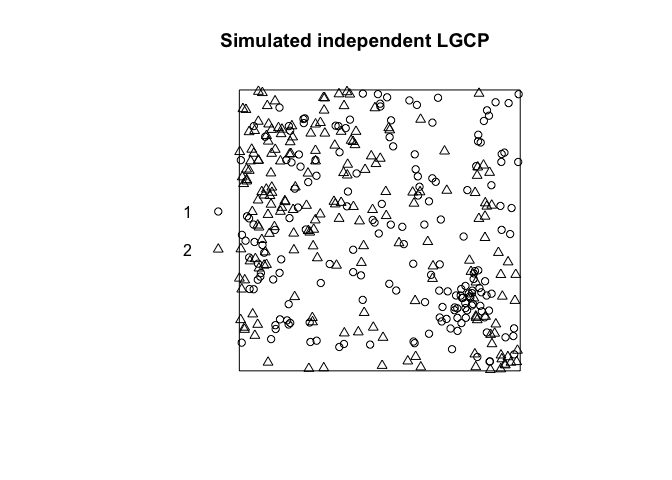
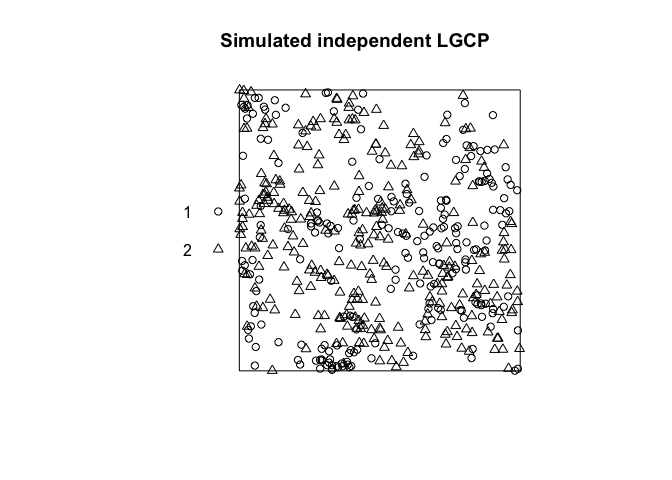
Updated Readme

Changed region(s): [[0.3438, 0.1562, 0.7812, 0.7812]]

diff --git a/README.md b/README.md
@@ -13,7 +13,15 @@ You can install the development version of spatbiome from
 [GitHub](https://github.com/) with:
 
 ``` r
-devtools::install_github("asmita112358/spatbiome")
+
+# Install a package from GitHub
+pak::pak("asmita112358/spatbiome")
+#> ✔ Updated metadata database: 7.33 MB in 14 files.
+#> ℹ Updating metadata database✔ Updating metadata database ... done
+#>  
+#> → Package library at '/Library/Frameworks/R.framework/Versions/4.6/Resources/library'.
+#> ℹ No downloads are needed
+#> ✔ 1 pkg + 40 deps: kept 40 [9.8s]
 ```
 
 ## Generate data
@@ -60,37 +68,25 @@ X <- generate_LGCP(win = spatstat.geom::owin(c(0, 1), c(0, 1)), corrfun = "expon
 plot(X, main = "Simulated independent LGCP")
 ```
 
-<img src="man/figures/README-unnamed-chunk-2-1.png" alt="" width="100%" />
+<img src="man/figures/README-unnamed-chunk-3-1.png" alt="" width="100%" />
 
 ``` r
 res <- ARShift(data = X, i = "1", j = "2", n_perm = 499, workers = 5, type = "hom")
 res
-#> $pval_Kcross_area
-#> [1] 0.486
+#> $p
+#> [1] 0.978
 #> 
-#> $K_fun
-#>  [1] 0.000000e+00 2.691935e-05 8.075805e-05 2.722890e-04 3.934260e-04
-#>  [6] 7.458827e-04 1.145838e-03 1.481291e-03 1.941683e-03 2.427345e-03
-#> [11] 3.024348e-03 3.719665e-03 4.448915e-03 5.054776e-03 5.739055e-03
-#> [16] 6.657996e-03 7.631482e-03 8.693738e-03 9.719843e-03 1.076804e-02
-#> [21] 1.178577e-02 1.313647e-02 1.440203e-02 1.584987e-02 1.727332e-02
-#> [26] 1.887563e-02 2.060309e-02 2.252549e-02 2.462361e-02 2.651369e-02
-#> [31] 2.835341e-02 3.037673e-02 3.257027e-02 3.456973e-02 3.681591e-02
-#> [36] 3.913597e-02 4.163189e-02 4.428749e-02 4.647396e-02 4.917696e-02
-#> [41] 5.168731e-02 5.392974e-02 5.680644e-02 6.012836e-02 6.322477e-02
-#> [46] 6.621379e-02 6.964718e-02 7.252490e-02 7.566873e-02 7.889148e-02
-#> 
-#> $n_valid
-#> [1] 499
-#> 
-#> $n_valid_total
-#> [1] 549
-#> 
-#> $n_attempts
-#> [1] 549
-#> 
-#> $k
-#> [1] 1.1
+#> $K
+#>  [1] 0.000000e+00 0.000000e+00 4.638219e-05 1.391466e-04 3.555968e-04
+#>  [6] 6.388793e-04 8.576736e-04 1.107047e-03 1.693899e-03 2.107979e-03
+#> [11] 2.477456e-03 2.902251e-03 3.619701e-03 4.614773e-03 5.423976e-03
+#> [16] 6.197026e-03 7.171567e-03 8.081193e-03 8.800024e-03 9.950374e-03
+#> [21] 1.094189e-02 1.208581e-02 1.328100e-02 1.446550e-02 1.622188e-02
+#> [26] 1.743779e-02 1.906610e-02 2.040570e-02 2.194648e-02 2.384951e-02
+#> [31] 2.574690e-02 2.765557e-02 2.969256e-02 3.150141e-02 3.313605e-02
+#> [36] 3.513753e-02 3.738270e-02 3.940355e-02 4.144544e-02 4.332919e-02
+#> [41] 4.520679e-02 4.774279e-02 4.974814e-02 5.257372e-02 5.472340e-02
+#> [46] 5.754131e-02 6.007532e-02 6.245702e-02 6.507961e-02 6.764358e-02
 #> 
 #> $r
 #>  [1] 0.000000000 0.003061224 0.006122449 0.009183673 0.012244898 0.015306122
@@ -102,6 +98,15 @@ res
 #> [37] 0.110204082 0.113265306 0.116326531 0.119387755 0.122448980 0.125510204
 #> [43] 0.128571429 0.131632653 0.134693878 0.137755102 0.140816327 0.143877551
 #> [49] 0.146938776 0.150000000
+#> 
+#> $n_attempts
+#> [1] 549
+#> 
+#> $n_valid
+#> [1] 549
+#> 
+#> $n_perm
+#> [1] 499
 ```
 
 ## Example 2. Null hypothesis: dependent point patterns
@@ -114,37 +119,25 @@ X <- generate_LGCP(win = spatstat.geom::owin(c(0, 1), c(0, 1)), corrfun = "expon
 plot(X, main = "Simulated dependent LGCP")
 ```
 
-<img src="man/figures/README-unnamed-chunk-4-1.png" alt="" width="100%" />
+<img src="man/figures/README-unnamed-chunk-5-1.png" alt="" width="100%" />
 
 ``` r
 res <- ARShift(data = X, i = "1", j = "2", n_perm = 499, workers = 5, type = "hom")
 res
-#> $pval_Kcross_area
-#> [1] 0.036
+#> $p
+#> [1] 0.002
 #> 
-#> $K_fun
-#>  [1] 0.0000000000 0.0000538329 0.0001211240 0.0002826227 0.0004844961
-#>  [6] 0.0007267442 0.0011439492 0.0015821028 0.0021917721 0.0027708937
-#> [11] 0.0032688481 0.0038559005 0.0046840899 0.0055336547 0.0066778830
-#> [16] 0.0077413745 0.0085277951 0.0099426065 0.0109751687 0.0126760877
-#> [21] 0.0139354515 0.0153420722 0.0164739631 0.0181130069 0.0195994916
-#> [26] 0.0212843451 0.0231217075 0.0246521954 0.0265010353 0.0282751924
-#> [31] 0.0306323659 0.0325677486 0.0345536046 0.0364882355 0.0385636303
-#> [36] 0.0408405052 0.0432354658 0.0456682637 0.0480866476 0.0508674948
-#> [41] 0.0536029860 0.0563951285 0.0588266213 0.0618600667 0.0644004279
-#> [46] 0.0673885542 0.0708451909 0.0739841535 0.0775308193 0.0812772004
-#> 
-#> $n_valid
-#> [1] 499
-#> 
-#> $n_valid_total
-#> [1] 549
-#> 
-#> $n_attempts
-#> [1] 549
-#> 
-#> $k
-#> [1] 1.1
+#> $K
+#>  [1] 0.0000000000 0.0001747030 0.0003105831 0.0006211662 0.0009511608
+#>  [6] 0.0014752698 0.0020724307 0.0026935970 0.0033924090 0.0043004212
+#> [11] 0.0053680507 0.0066880290 0.0080801185 0.0093029635 0.0104311789
+#> [16] 0.0119153516 0.0131553170 0.0151246590 0.0166368232 0.0183234268
+#> [21] 0.0200989223 0.0222146912 0.0244851611 0.0265865302 0.0287634592
+#> [26] 0.0310283010 0.0338795159 0.0367619803 0.0393546887 0.0417828531
+#> [31] 0.0447244058 0.0479815226 0.0507638352 0.0535794006 0.0571314807
+#> [36] 0.0603820265 0.0635348447 0.0672794404 0.0705643397 0.0741141128
+#> [41] 0.0775584261 0.0813193541 0.0852693537 0.0887232375 0.0926399377
+#> [46] 0.0965988340 0.1009346834 0.1051919224 0.1094183366 0.1134878228
 #> 
 #> $r
 #>  [1] 0.000000000 0.003061224 0.006122449 0.009183673 0.012244898 0.015306122
@@ -156,4 +149,13 @@ res
 #> [37] 0.110204082 0.113265306 0.116326531 0.119387755 0.122448980 0.125510204
 #> [43] 0.128571429 0.131632653 0.134693878 0.137755102 0.140816327 0.143877551
 #> [49] 0.146938776 0.150000000
+#> 
+#> $n_attempts
+#> [1] 549
+#> 
+#> $n_valid
+#> [1] 549
+#> 
+#> $n_perm
+#> [1] 499
 ```
